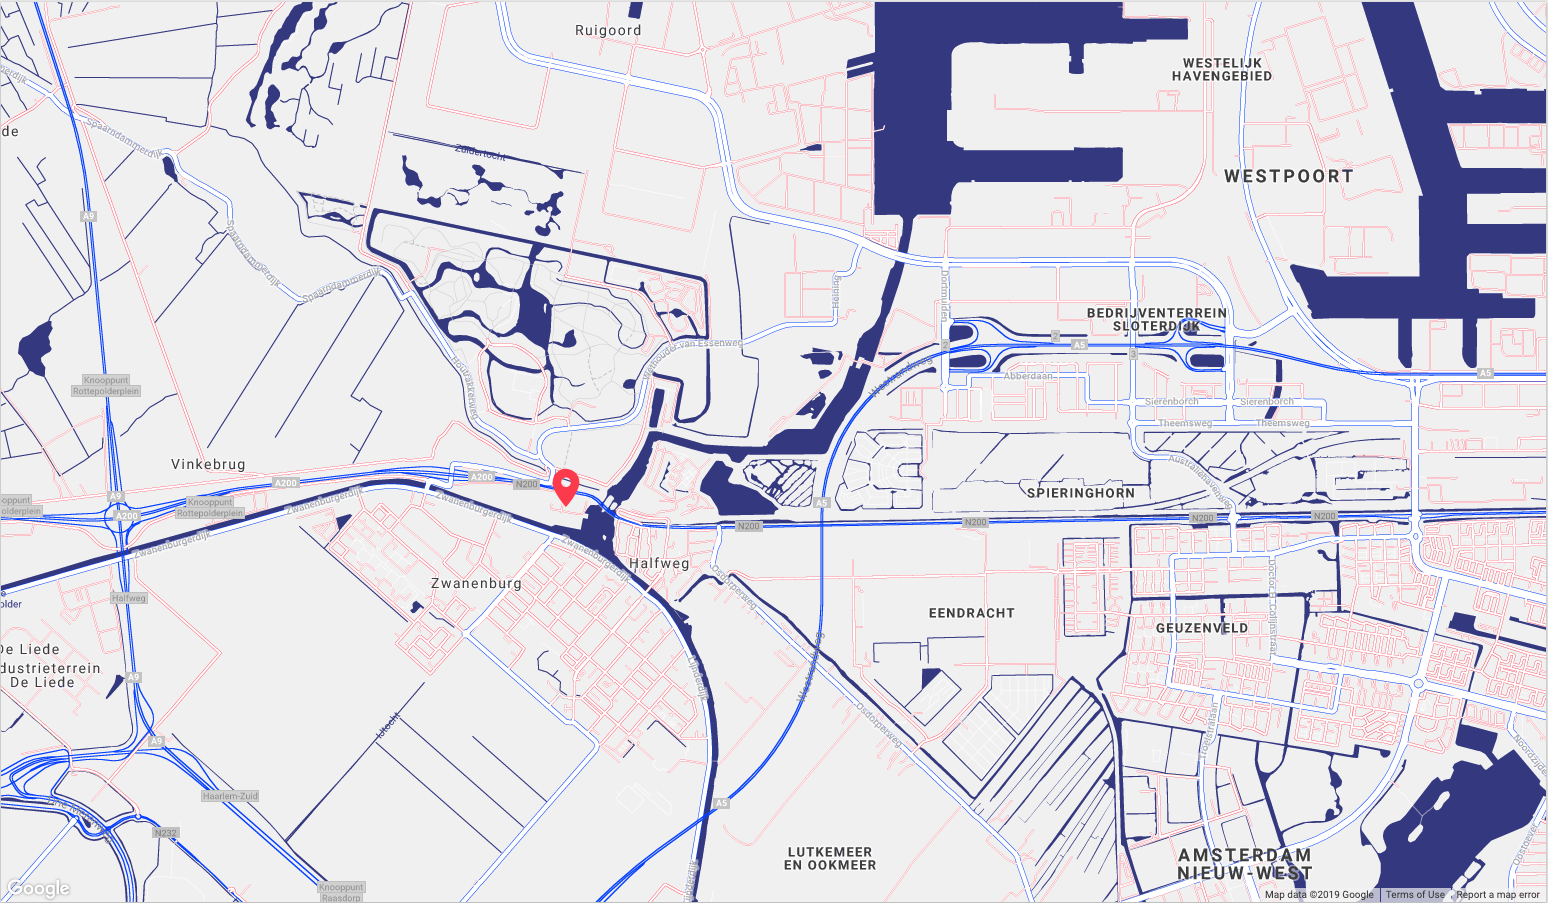
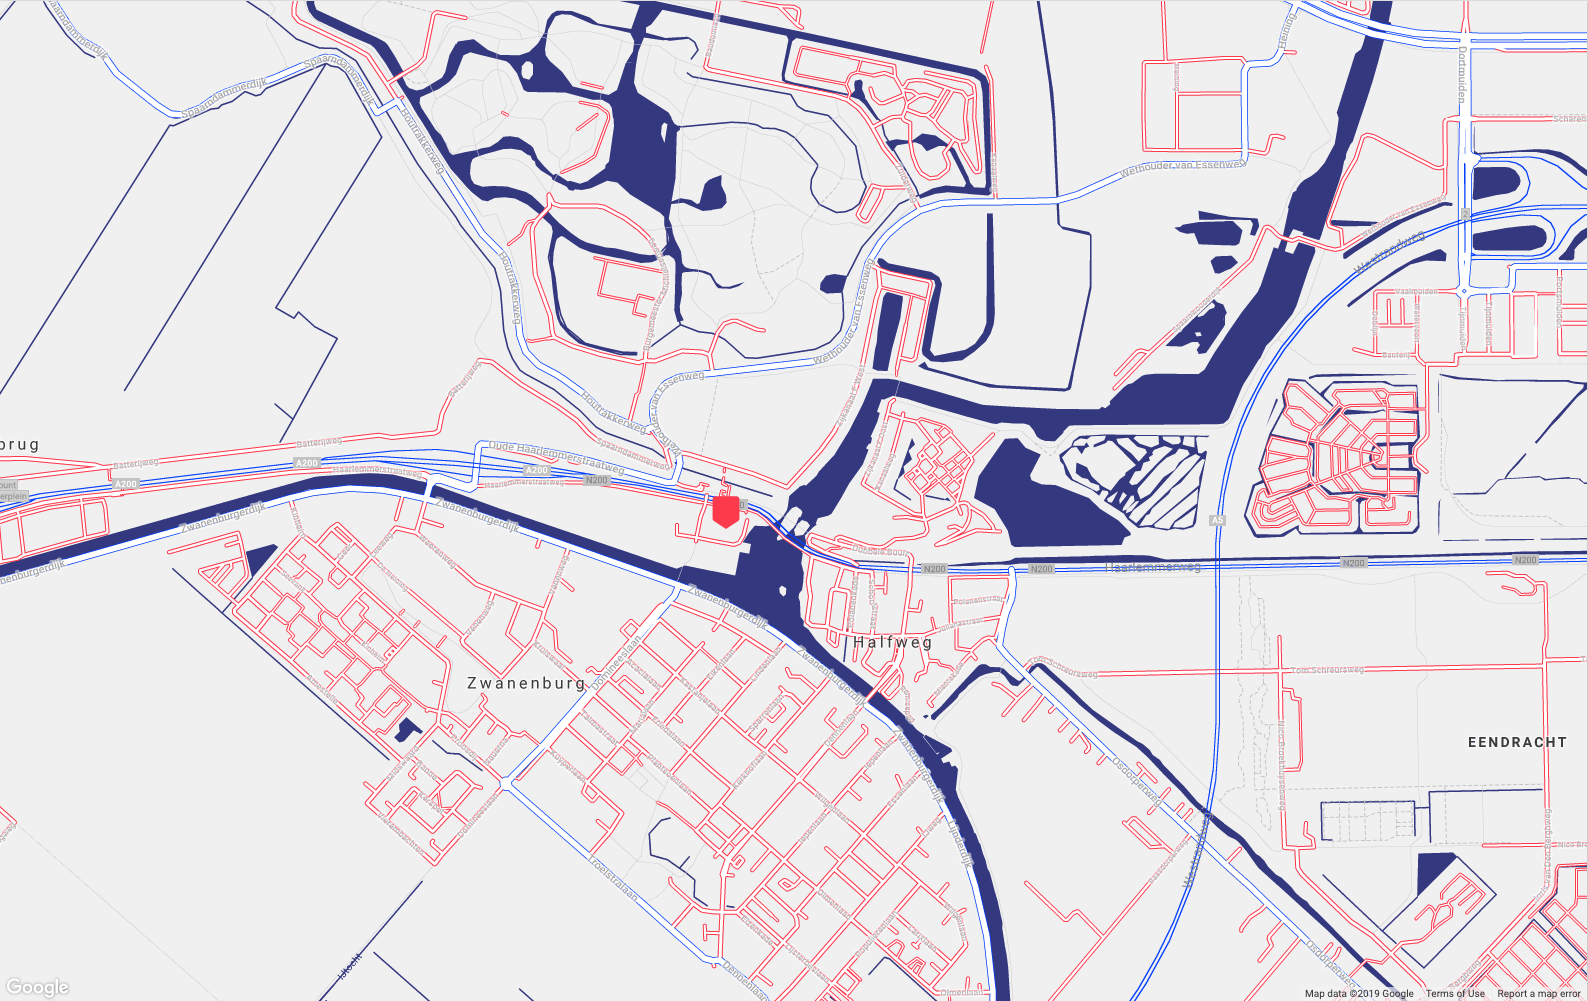
venue map changed

diff --git a/venue.css b/venue.css
@@ -9,11 +9,39 @@
      padding: 0 !important;
 }
 
+.venue-gallery img {
+    width: 100vw;
+}
+
+.venue-map {
+        position: relative;
+}
+
 .venue-map img {
         width: 75%;
     padding-bottom: 80px;
 }
 
-.venue-gallery img {
-    width: 100vw;
+.pinpoint {
+    height: 50px;
+    width: 50px;
+    background: transparent;
+    border-radius: 50px;
+    animation: pulse 3s infinite;
+  -webkit-animation:: pulse 3s infinite;
+    position: absolute;
+    top: 50%;
+    left: 50%;
+}
+
+@-webkit-keyframes pulse {
+  0% {
+    box-shadow: 0px 0px 0px 4px rgba(357, 78, 92, 0.5);
+  }
+   50% {
+    box-shadow: 0px 0px 0px 16px rgba(357, 78, 92, 0.5);
+  }
+    100% {
+    box-shadow: 0px 0px 0px 4px rgba(357, 78, 92, 0.5);
+  }
 }

diff --git a/venue.html b/venue.html
@@ -183,7 +183,7 @@ Get directions
 <div class="container background-white">
 <div class="venue-map row flex-centered-row">
 <img src="/assets/images/venue-map.png">
-
+    <div class="pinpoint"></div>
 </div>
 </div>
 <style>
